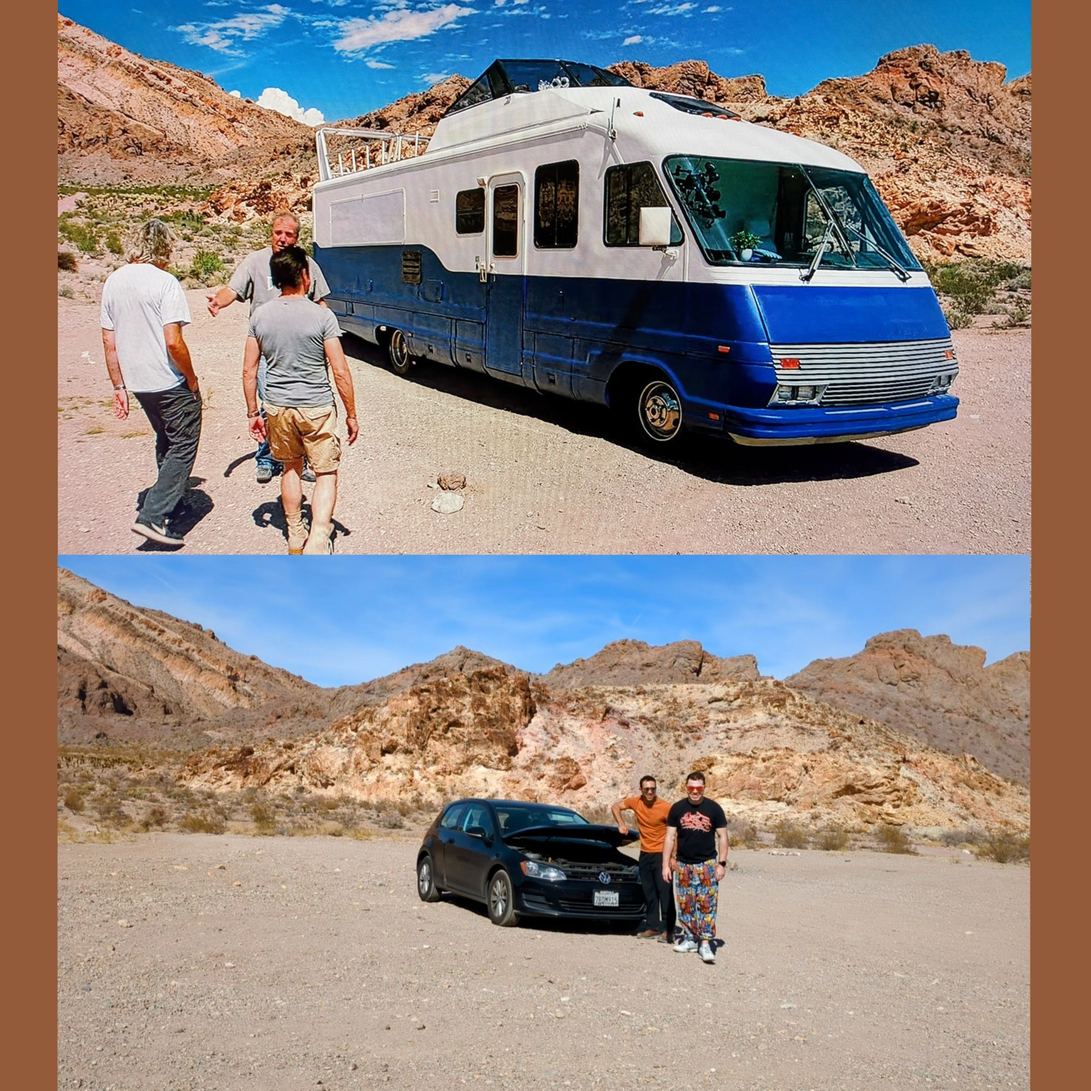
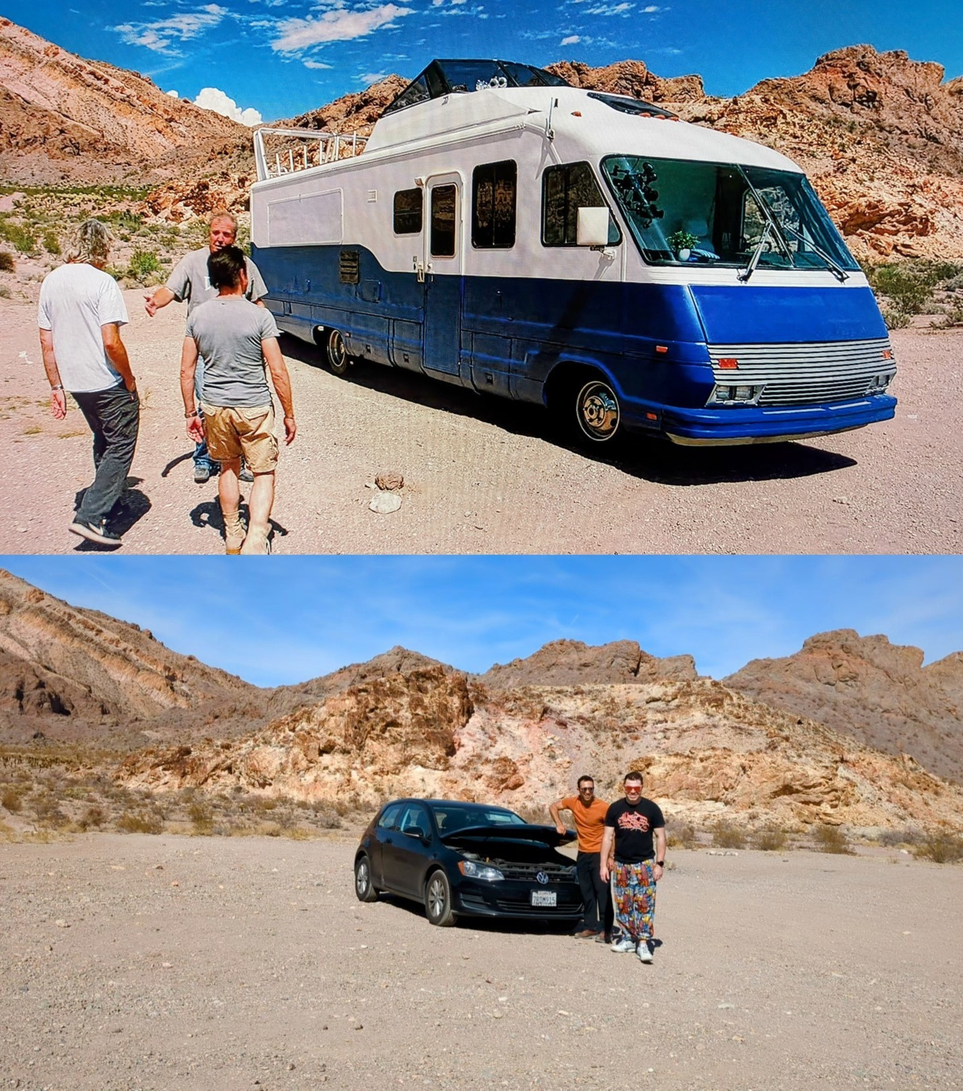
about page updated.

diff --git a/about.html b/about.html
@@ -184,19 +184,19 @@
           <div class="about-carousel" data-carousel>
             <div class="about-carousel-track">
               <div class="about-slide">
-                <img class="about-slide-image" src="tg/tg_1.jpg" alt="Top Gear photo 1">
+                <img class="about-slide-image about-slide-image-tg" src="tg/tg_1.jpg" alt="Top Gear photo 1">
                 <p>tbd</p>
               </div>
               <div class="about-slide">
-                <img class="about-slide-image" src="tg/tg_2.jpg" alt="Top Gear photo 2">
+                <img class="about-slide-image about-slide-image-tg" src="tg/tg_2.jpg" alt="Top Gear photo 2">
                 <p>tbd</p>
               </div>
               <div class="about-slide">
-                <img class="about-slide-image" src="tg/tg_3.jpg" alt="Top Gear photo 3">
+                <img class="about-slide-image about-slide-image-tg" src="tg/tg_3.jpg" alt="Top Gear photo 3">
                 <p>tbd</p>
               </div>
               <div class="about-slide">
-                <img class="about-slide-image" src="tg/tg_4.jpg" alt="Top Gear photo 4">
+                <img class="about-slide-image about-slide-image-tg" src="tg/tg_4.jpg" alt="Top Gear photo 4">
                 <p>tbd</p>
               </div>
             </div>

diff --git a/style.css b/style.css
@@ -691,6 +691,9 @@ footer{
   display: block;
 }
 .about-slide-image-book{
+  object-fit: cover;
+}
+.about-slide-image-tg{
   object-fit: contain;
 }
 .about-slide h4{
